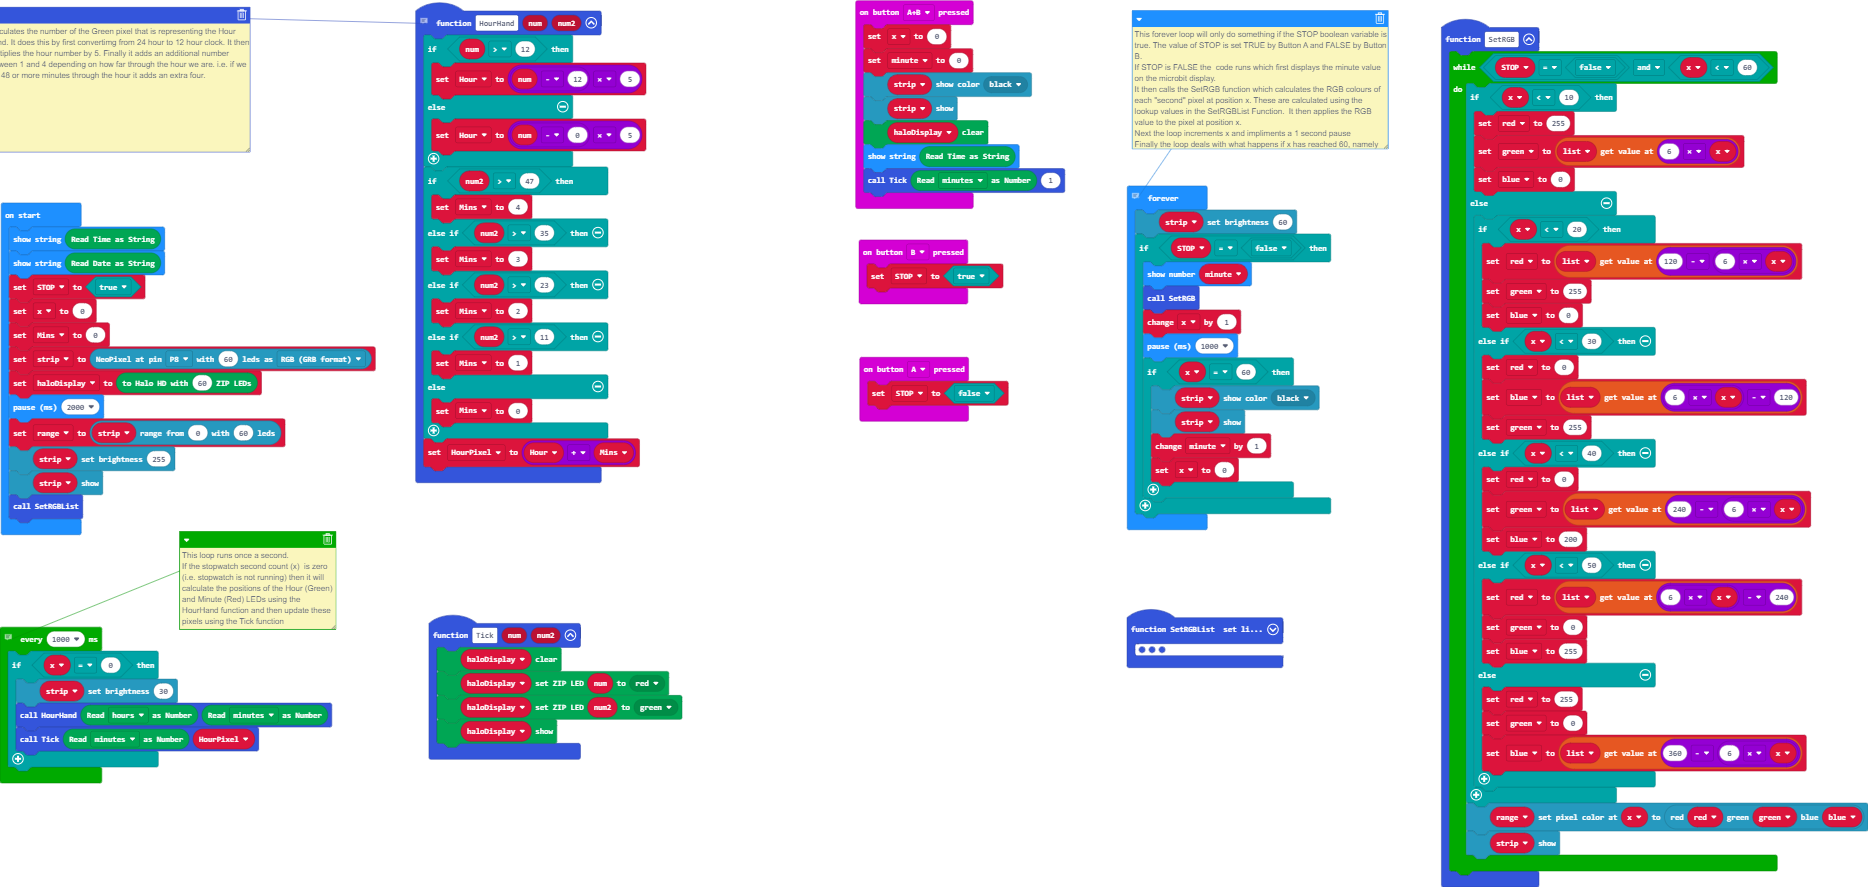
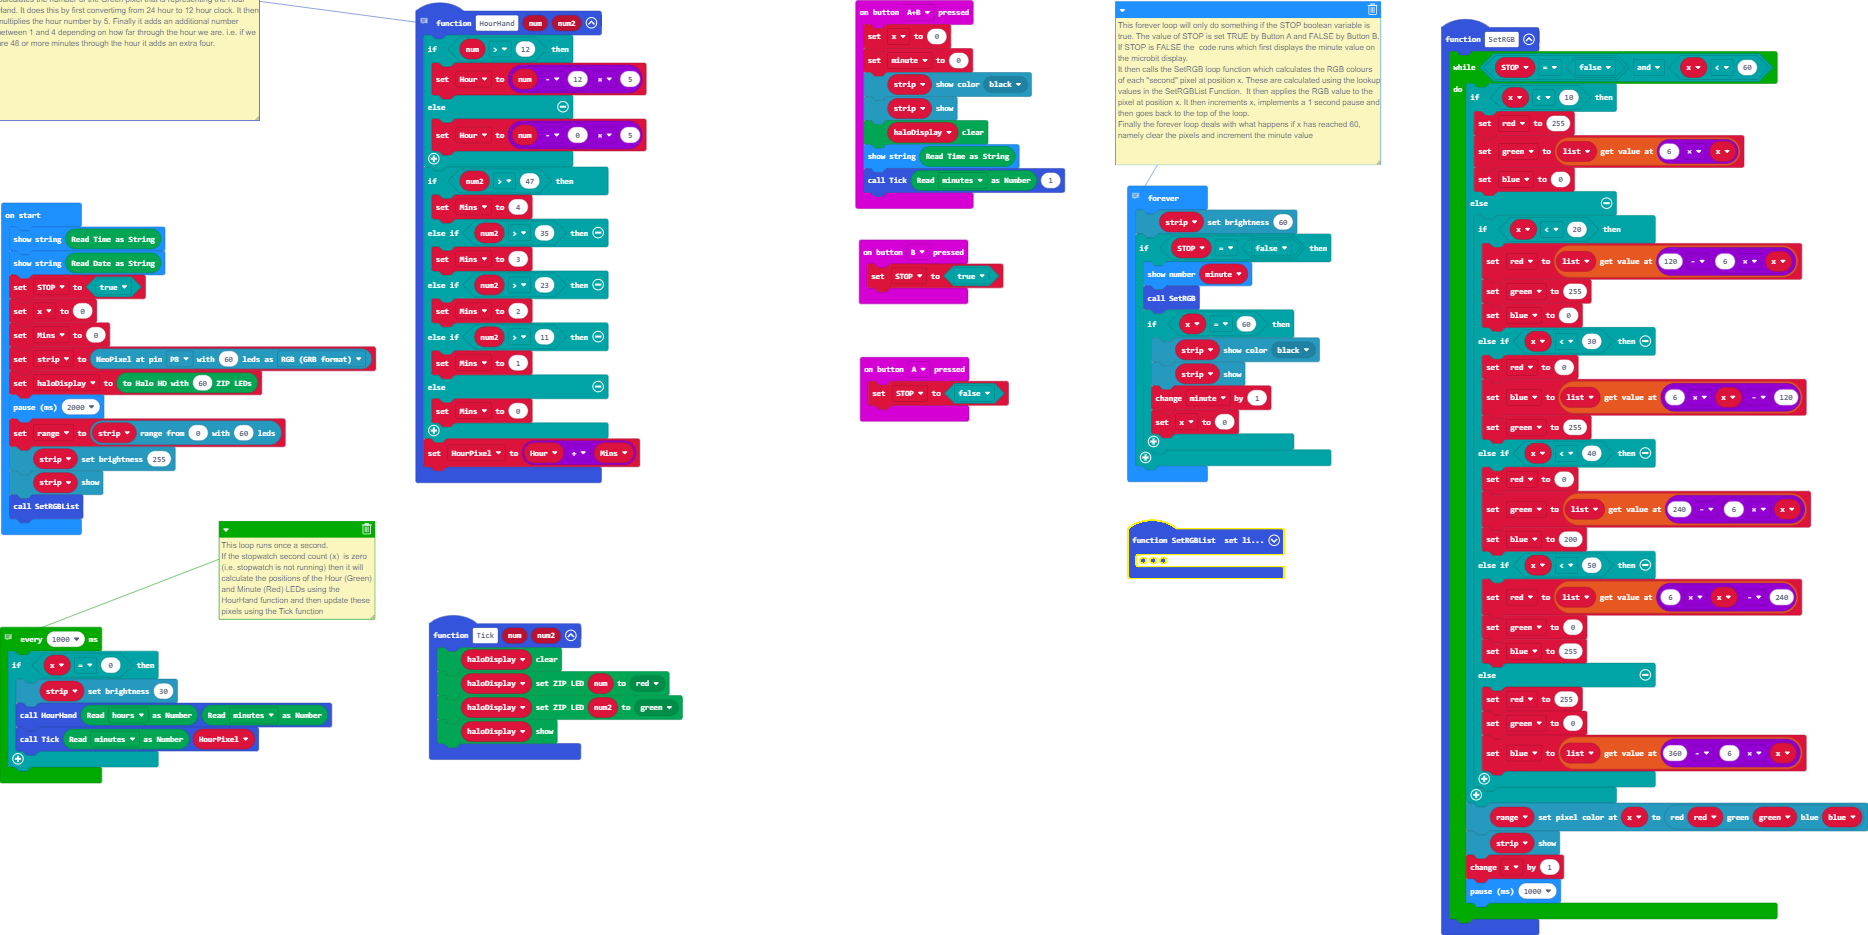
Tidy view and comments

diff --git a/main.ts b/main.ts
@@ -29,6 +29,8 @@ function SetRGB () {
         }
         range.setPixelColor(x, neopixel.rgb(red, green, blue))
         strip.show()
+        x += 1
+        basic.pause(1000)
     }
 }
 // Calculates the number of the Green pixel that is representing the Hour Hand. It does this by first convertimg from 24 hour to 12 hour clock. It then multiplies the hour number by 5. Finally it adds an additional number between 1 and 4 depending on how far through the hour we are. i.e. if we are 48 or more minutes through the hour it adds an extra four.
@@ -173,16 +175,13 @@ loops.everyInterval(1000, function () {
 })
 // This forever loop will only do something if the STOP boolean variable is true. The value of STOP is set TRUE by Button A and FALSE by Button B. 
 // If STOP is FALSE the  code runs which first displays the minute value on the microbit display.
-// It then calls the SetRGB function which calculates the RGB colours of each "second" pixel at position x. These are calculated using the lookup values in the SetRGBList Function.  It then applies the RGB value to the pixel at position x.
-// Next the loop increments x and impliments a 1 second pause
-// Finally the loop deals with what happens if x has reached 60, namely clear the pixels and increment the minute value
+// It then calls the SetRGB loop function which calculates the RGB colours of each "second" pixel at position x. These are calculated using the lookup values in the SetRGBList Function.  It then applies the RGB value to the pixel at position x. It then increments x, implements a 1 second pause and then goes back to the top of the loop.
+// Finally the forever loop deals with what happens if x has reached 60, namely clear the pixels and increment the minute value
 basic.forever(function () {
     strip.setBrightness(60)
     if (STOP == false) {
         basic.showNumber(minute)
         SetRGB()
-        x += 1
-        basic.pause(1000)
         if (x == 60) {
             strip.showColor(neopixel.colors(NeoPixelColors.Black))
             strip.show()
